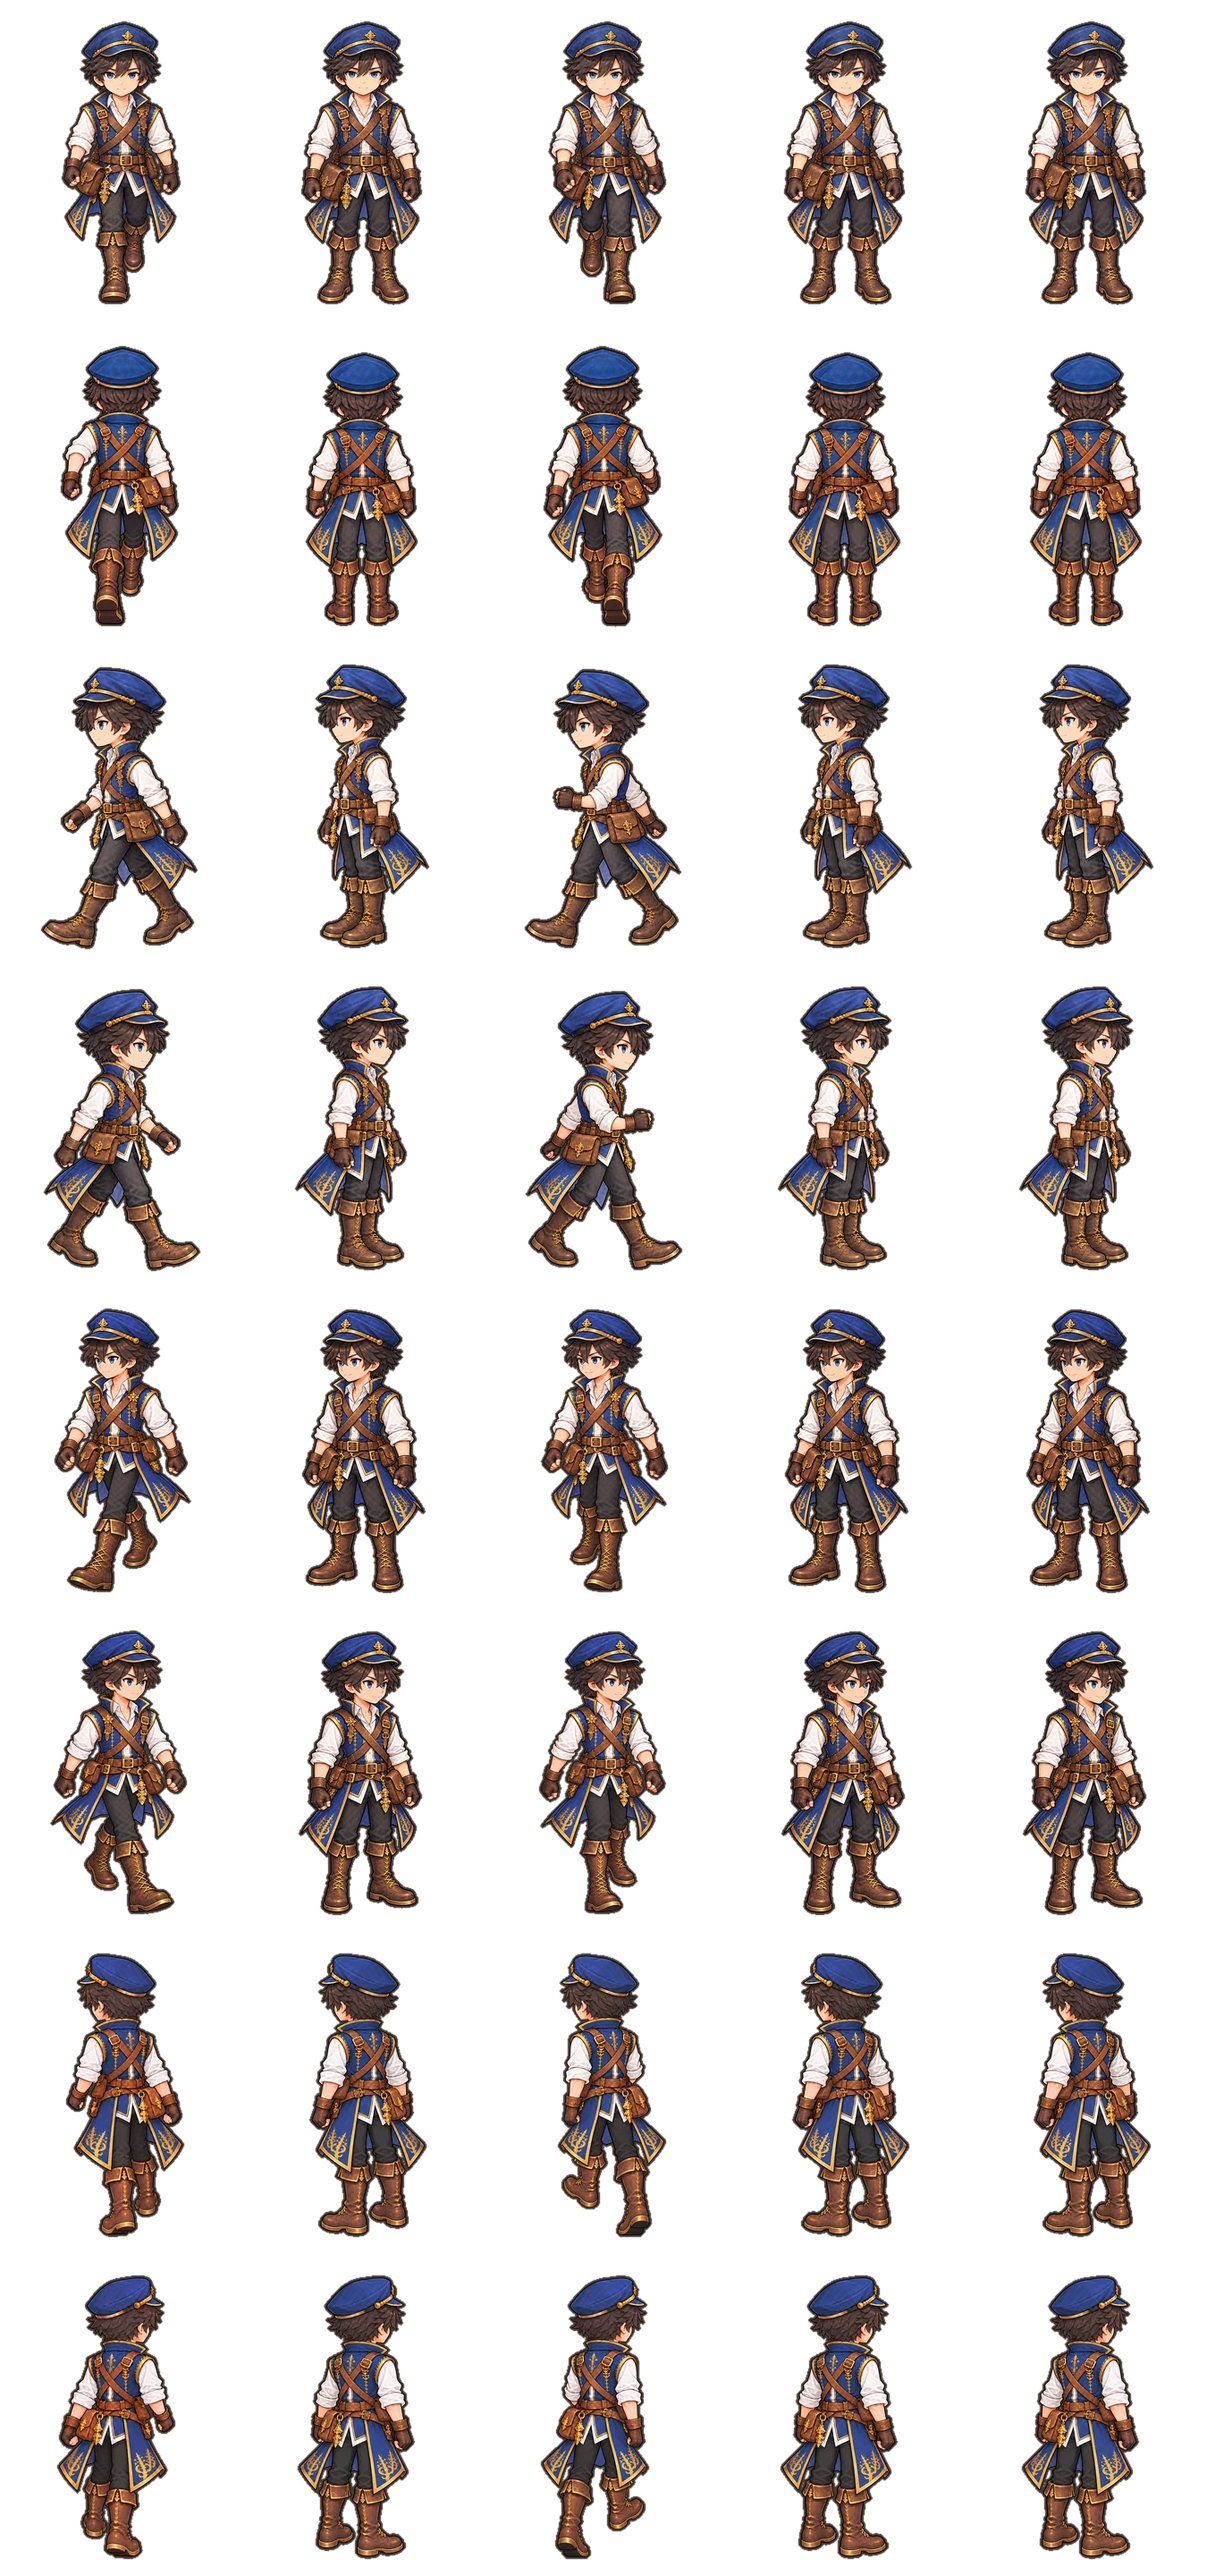
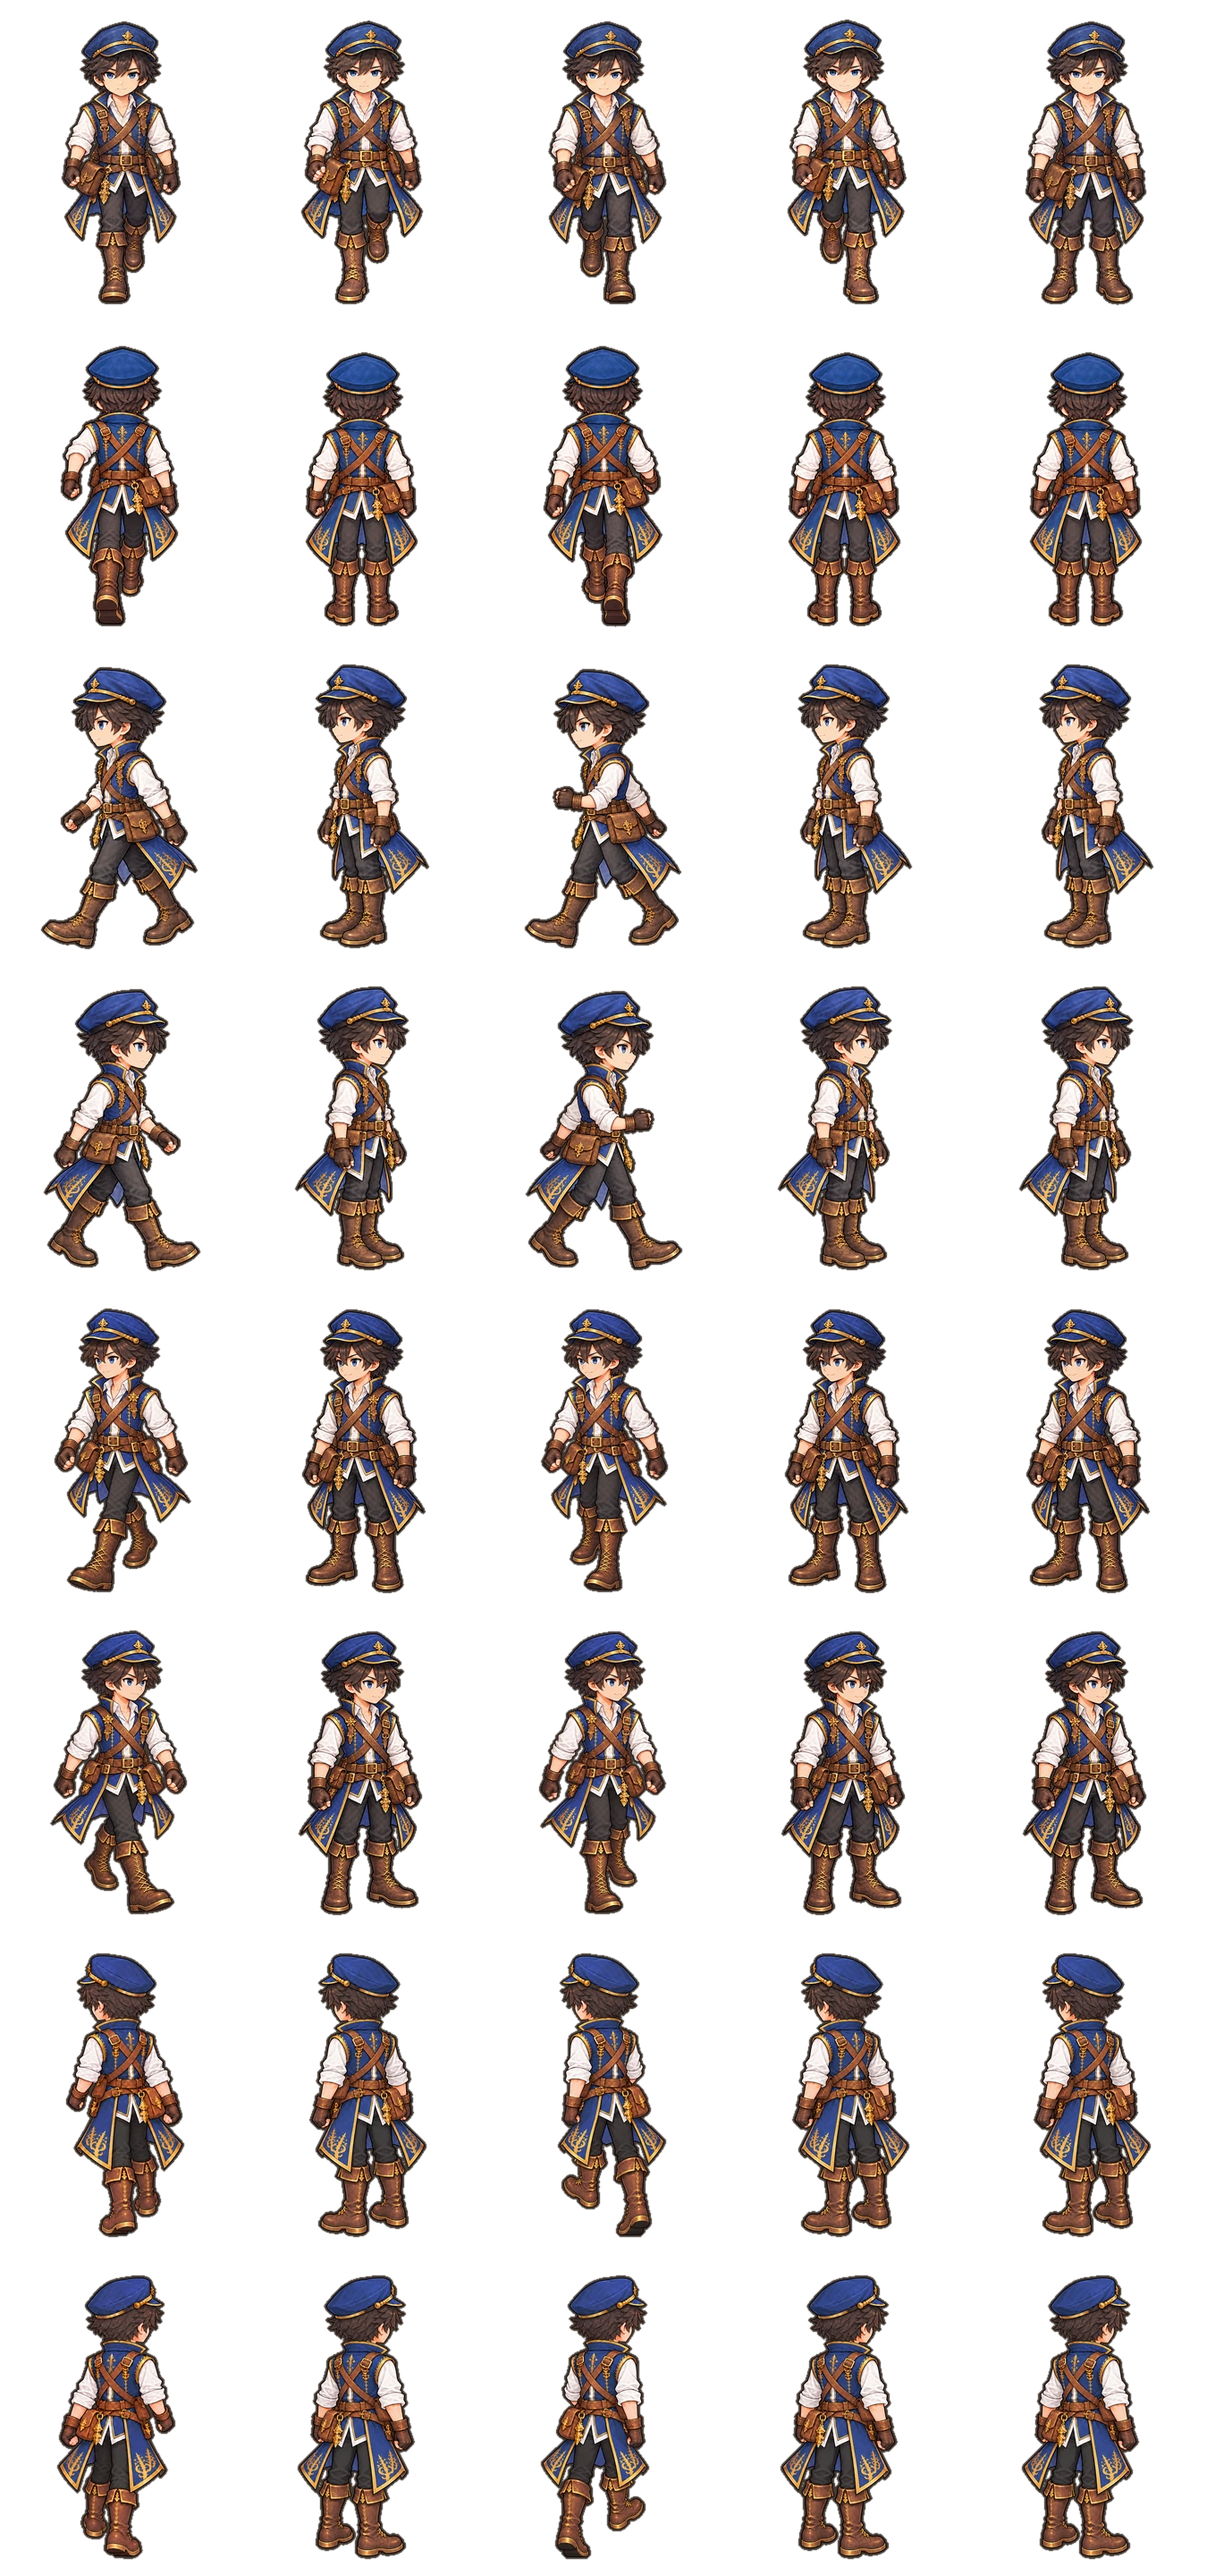
歩きの絵：男性主人公の正面に「足を運ぶ途中」の2ポーズを入れる
デザイン担当から届いた男性・正面の3ポーズ（右足で立ち左足を運ぶ・立つ・左足で立ち右足を運ぶ）。
- adult_walk_build.py：{ID}_walk_{front,back,left}_pass.png があれば、歩きの2列目・4列目（いままで「立つ」）をその2ポーズにする
  （見本の「立つ」の背の高さを歩きの絵にそろえ、上半身の位置を合わせる）
- 主人公（男性）のシートを作り直し（正面の行だけ変わる）
- 記録：docs/design/motion-20261024/10_RESULTS.txt

Claude-Session: https://claude.ai/code/session_017WQbmD1PjqFYPU1QptgkxD

Changed region(s): [[0.2489, 0.0, 0.3733, 0.125], [0.6533, 0.0, 0.7467, 0.125]]

diff --git a/tools/art/adult_walk_build.py b/tools/art/adult_walk_build.py
@@ -23,10 +23,13 @@
 --diag：斜め向きの4行を足す（主人公だけ。2026-10-23 追加）。行は 正面・背中・左・右・左下・右下・左上・右上 の8行になる。
   届く絵は1枚に1ポーズ：{ID}_{downleft,upleft}_{stand,rightfoot,leftfoot}.png（1024×1024 か 1254×1254）。
   絵ごとに大きさが違うので、1枚ずつ背の高さ（頭のてっぺん〜足元）を FIGURE_H にそろえる。右下・右上は左下・左上の左右反転
+{ID}_walk_{front,back,left}_pass.png（2026-10-24〜。あれば）：足を運ぶ途中の絵（docs/design/walk-passing-20261024/。1枚に
+  「右足で立ち左足を運ぶ・立つ（見本）・左足で立ち右足を運ぶ」）。歩きの「立つ」の2コマ（2列目・4列目）をこの2ポーズにする
 --outline N：人物のまわりに N px の暗い輪郭を付ける（2026-10-23 追加）。背景の描き込みが強い街・部屋で人物が埋もれないように。
   同じ日に --tone（色を落ち着かせる）はやめた（背景を描き直して色の調整を外したので、人物だけがくすんで見えたため）
 """
 import sys
+from pathlib import Path
 
 import numpy as np
 from PIL import Image
@@ -110,6 +113,18 @@ def poses(sheet: Image.Image, k: float) -> list[Image.Image]:
     return [place(wins[0], cx, k)] + [place(w, cx - body_shift(ref, alpha(w)), k) for w in wins[1:]]
 
 
+def pass_poses(pass_sheet: Image.Image, walk_sheet: Image.Image, k: float) -> list[Image.Image]:
+    """足を運ぶ途中の絵（1枚に「右足で立ち左足を運ぶ・立つ（見本）・左足で立ち右足を運ぶ」）の2コマ。
+    見本の「立つ」の背の高さを歩きの絵の「立つ」にそろえ、上半身が見本の「立つ」と重なる位置に置く
+    （歩きの絵とは別の日に描いた絵なので、大きさ・位置が少し違うことがある）"""
+    wins = split_poses(pass_sheet)
+    ref = alpha(wins[1])
+    ys = np.nonzero(ref.any(axis=1))[0]
+    kp = k * figure_height(walk_sheet) / int(ys[-1] - ys[0])
+    cx = body_center(ref)
+    return [place(w, cx - body_shift(ref, alpha(w)), kp) for w in (wins[0], wins[2])]
+
+
 def diag_poses(folder: str, cid: str, d: str) -> list[Image.Image]:
     """斜め向き（d＝downleft / upleft）の 立つ・右足を前・左足を前 の3コマ。
     1枚ずつ背の高さを FIGURE_H にそろえ、足を出した2つは上半身が「立つ」と重なる位置に"""
@@ -187,7 +202,12 @@ def main() -> None:
     for d in ('front', 'back', 'left'):
         sheet = Image.open(f'{folder}/{cid}_walk_{d}.png').convert('RGBA')
         stand, right_fwd, left_fwd = poses(sheet, k)
-        rows.append([right_fwd, stand, left_fwd, stand] + ([] if npc else [stand]))
+        # 足を運ぶ途中の絵（2026-10-24〜。あるときだけ）：「立つ」の2コマを「右足で立ち左足を運ぶ」「左足で立ち右足を運ぶ」に
+        pass_r = pass_l = stand
+        pass_path = Path(f'{folder}/{cid}_walk_{d}_pass.png')
+        if pass_path.exists():
+            pass_r, pass_l = pass_poses(Image.open(pass_path).convert('RGBA'), sheet, k)
+        rows.append([right_fwd, pass_r, left_fwd, pass_l] + ([] if npc else [stand]))
     rows.append([f.transpose(Image.FLIP_LEFT_RIGHT) for f in rows[2]])
     if '--diag' in args:
         for d in ('downleft', 'upleft'):

diff --git a/docs/handoff.md b/docs/handoff.md
@@ -38,7 +38,7 @@
 | 対戦画面の改訂R2（2026-10-24・公開済み `e1b48d9`・**iPhone 確認待ち**） | ユーザーの ZIP「Seimon_Claude_BattleLayout_R2_20261024」のフェーズ2だけ実装：相手の手札を自分と同じ大きさの裏向きで上に（実枚数・中身は出さない・引く/使う/マナ化で動く）、モンスターを 72→58（72/58/54 を比較）→ユーザー指示で左右の欄を細く・アイコンなしにして 66、手札（自分・相手とも）62→66、相手の列は 左＝状態・右＝マナ/山札/手札/捨札、真ん中の帯に最新の経過1行（押すと全部）、操作のボタンは自分のモンスターの右（ユーザー指示「下すぎて操作感に問題」で、いちばん下から移した。自分の列は 左＝マナなど・右＝ボタン）。ルール・カード・セーブ・画像は変更なし。記録と受入テストの結果は `docs/battle-layout-r2.md`、比較画像は `docs/design/battle-layout-r2-20261024/`。**フェーズ1（街・ダンジョン・NPC）は未着手**（動画4本・前の ZIP が届いていない） |
 | 歩く人物の見え方（2026-10-24・公開済み `8641fd1`） | ユーザーの試遊「プカプカ浮いて見える」「指でなぞるとクルクル回って、切り抜いて貼った絵のようでチープ」から：立っている人の呼吸の動きをやめた（`world.css`）、歩くときの体の上下（弾み）を 0 に、足元の影を広く濃く・少し下へ（接地の影）。向き：壁ぞいにすべるときも押している向きの絵のまま（斜めと正面の絵が1歩ごとに入れ替わっていた）、進めない向きへは 0.22 秒押し続けたときだけその場で向く（`worldScreen.ts` の `TURN_IN_PLACE_MS`） |
 | 世界地図 | **2026-10-23 作って公開（`9b6494b`）**（ユーザー案）：街の南の出口・家の壁の地図で開く画面を、ミスモンの世界地図（ユーザーが送った文字のない版。`assets/images/ui/worldmap/world_map.webp`）に。地方の名前6つ（ミスモン本編と同じ：フェルナ・ノルディス・アステリア・オルティガ・セイラン・ネブラシア。英語は仮訳）を絵の上に重ね、舞台の**フェルナ地方**は金色。街（現在地）とダンジョンを丸い印で置き、押すと下に説明。**南の出口からは出発できる・家の壁の地図は見るだけ**（それまでは家からも出発できた）。ダンジョンは各地方に置く方針（例：雪のダンジョン＝ノルディス地方）。印の位置・名前は**仮**（`src/data/worldMap.ts`）。画面は `dungeonSelectScreen.ts` |
-| 次の作業 | **新しいセッションでは、ユーザーの次の指示を待つ**（2026-10-24 ユーザー「まだ試遊はしていません」）。**ユーザーの試遊・iPhone 確認待ち**：対戦画面の改訂R2（公開済み `e1b48d9`。直しの指示が来たら `battleScreen.ts`・`battleTable.css`）。**第7弾の描き直し6枚（両端の飾りなし）を組み込んだ（2026-10-24・公開済み `35b2c69`。記録 `docs/design/ui-quality7fix-20261023/10_受け取り結果_UTF8.txt`）**。**歩き方の改善（2026-10-24・公開済み `35b2c69`）**：ユーザー「動きがチープ」を受け、ゲーム側だけで、足元を中心に体をわずかに縮める／伸ばす・進む向きへ少し前傾き・足元の影の動き・足の動きを落ち着かせる（`STEP_PER_HEIGHT` 0.45→0.58）（`worldScreen.ts` の `#bodyPose`）。比べた動画はチャットで送付。**絵の依頼**：主人公の「歩く・走る」全方向 `docs/design/motion-20261024/`（2026-10-24。歩き4ポーズ＋走り4ポーズ×5方向・1枚に1ポーズ・1人34枚。ZIP `Seimon_Motion_Walk_Run.zip` をユーザーに渡し済み。前の `walk-passing-20261024` を含む。まず男性・正面の W2 を1枚）。届いたら `tools/art/adult_walk_build.py` で「右足を前・右足で立ち左足を運ぶ・左足を前・左足で立ち右足を運ぶ」の4コマにする。黒い余白の補正は画面の下が切れたので取り消し済み（公開済み）。絵の依頼の ZIP は作り直し版（`Seimon_WalkPassing.zip`・英数字の名前・5.5MB）をユーザーが受け取り済み。上の帯の設定（`black-translucent`）の変更はユーザーの判断待ち。**改訂R2のフェーズ1（街・ダンジョン・NPC）は公開済み `44b33e2`・iPhone 確認待ち**（2026-10-24。特に、ホーム画面から開いたとき下の黒い帯が消えたか。黒い余白の補正・ダンジョン 1.5 倍／街 1.15 倍とカメラの遊び・先読み・人のまわり〔重ならない・「話す」・こちらを向く〕・スティックの輪の位置）。記録と確認の結果は `docs/battle-layout-r2.md` 6・7章。**ユーザーの iPhone 確認待ち**：歩く人物（浮かない・回らない・影）、対戦画面（相手の手札は裏向き・情報の箱は端・コマンドは自分の情報の下・相手のひと言）、攻撃終了の修正、ラズック、効果音、世界地図、デザイン第6・7弾、新しいアイコン。**届く予定**：第7弾の描き直し6枚（両端の飾りなし。依頼一式 `docs/design/ui-quality7fix-20261023/`）。**ユーザーが決めること**：ラズックの初期・収集の配分（8/8 か 10/6）、ちょうはつ・ダストキックの細かい裁定、相手のひと言の正式な台詞、ダンジョンの対戦の背景、大会の対戦相手の名前・人物像、先生の台詞（仮）、世界地図の印の位置・名前（仮）。ソラモ・ラズックの未定事項は上の「正式カード」の行。未着の依頼：歩きの「半歩」の絵、走る絵 |
+| 次の作業 | **新しいセッションでは、ユーザーの次の指示を待つ**（2026-10-24 ユーザー「まだ試遊はしていません」）。**ユーザーの試遊・iPhone 確認待ち**：対戦画面の改訂R2（公開済み `e1b48d9`。直しの指示が来たら `battleScreen.ts`・`battleTable.css`）。**第7弾の描き直し6枚（両端の飾りなし）を組み込んだ（2026-10-24・公開済み `35b2c69`。記録 `docs/design/ui-quality7fix-20261023/10_受け取り結果_UTF8.txt`）**。**歩き方の改善（2026-10-24・公開済み `35b2c69`）**：ユーザー「動きがチープ」を受け、ゲーム側だけで、足元を中心に体をわずかに縮める／伸ばす・進む向きへ少し前傾き・足元の影の動き・足の動きを落ち着かせる（`STEP_PER_HEIGHT` 0.45→0.58）（`worldScreen.ts` の `#bodyPose`）。比べた動画はチャットで送付。**絵の依頼**：主人公の「歩く・走る」全方向 `docs/design/motion-20261024/`（2026-10-24。歩き4ポーズ＋走り4ポーズ×5方向・1枚に1ポーズ・1人34枚。ZIP `Seimon_Motion_Walk_Run.zip` をユーザーに渡し済み。前の `walk-passing-20261024` を含む。まず男性・正面の W2 を1枚）。**男性・正面の W2・W4 が届いて作業ブランチに組み込み済み・未公開**（`docs/design/motion-20261024/10_RESULTS.txt`。比べた動画はチャットで送付）。届いたら `tools/art/adult_walk_build.py` で「右足を前・右足で立ち左足を運ぶ・左足を前・左足で立ち右足を運ぶ」の4コマにする。黒い余白の補正は画面の下が切れたので取り消し済み（公開済み）。絵の依頼の ZIP は作り直し版（`Seimon_WalkPassing.zip`・英数字の名前・5.5MB）をユーザーが受け取り済み。上の帯の設定（`black-translucent`）の変更はユーザーの判断待ち。**改訂R2のフェーズ1（街・ダンジョン・NPC）は公開済み `44b33e2`・iPhone 確認待ち**（2026-10-24。特に、ホーム画面から開いたとき下の黒い帯が消えたか。黒い余白の補正・ダンジョン 1.5 倍／街 1.15 倍とカメラの遊び・先読み・人のまわり〔重ならない・「話す」・こちらを向く〕・スティックの輪の位置）。記録と確認の結果は `docs/battle-layout-r2.md` 6・7章。**ユーザーの iPhone 確認待ち**：歩く人物（浮かない・回らない・影）、対戦画面（相手の手札は裏向き・情報の箱は端・コマンドは自分の情報の下・相手のひと言）、攻撃終了の修正、ラズック、効果音、世界地図、デザイン第6・7弾、新しいアイコン。**届く予定**：第7弾の描き直し6枚（両端の飾りなし。依頼一式 `docs/design/ui-quality7fix-20261023/`）。**ユーザーが決めること**：ラズックの初期・収集の配分（8/8 か 10/6）、ちょうはつ・ダストキックの細かい裁定、相手のひと言の正式な台詞、ダンジョンの対戦の背景、大会の対戦相手の名前・人物像、先生の台詞（仮）、世界地図の印の位置・名前（仮）。ソラモ・ラズックの未定事項は上の「正式カード」の行。未着の依頼：歩きの「半歩」の絵、走る絵 |
 
 ## 2. これまでの作業（時系列・要点だけ）
 
